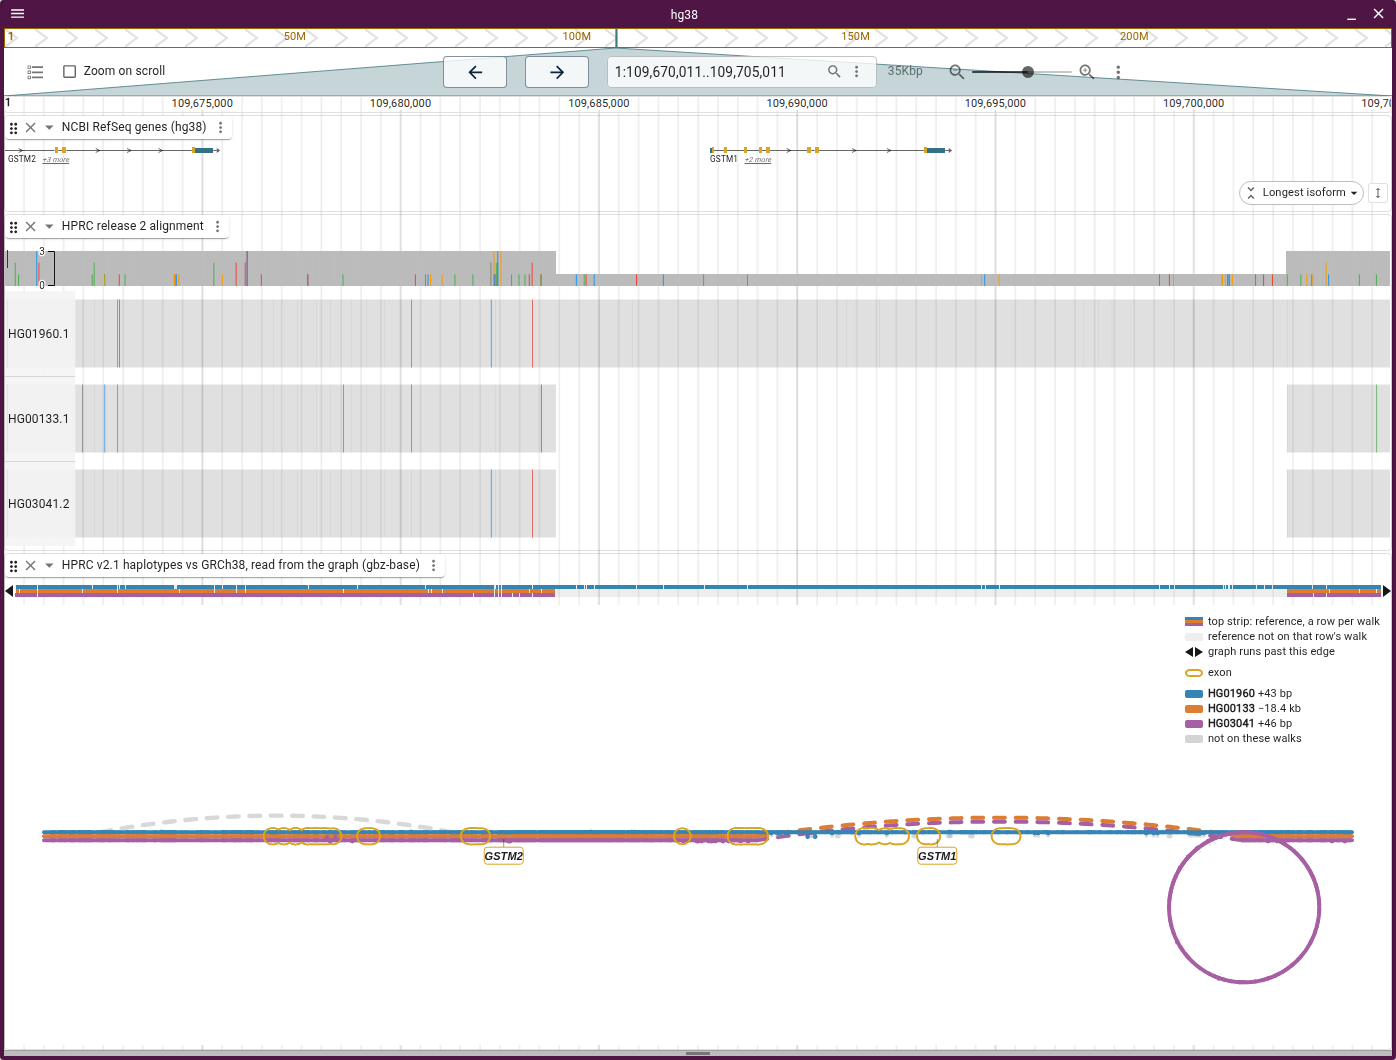
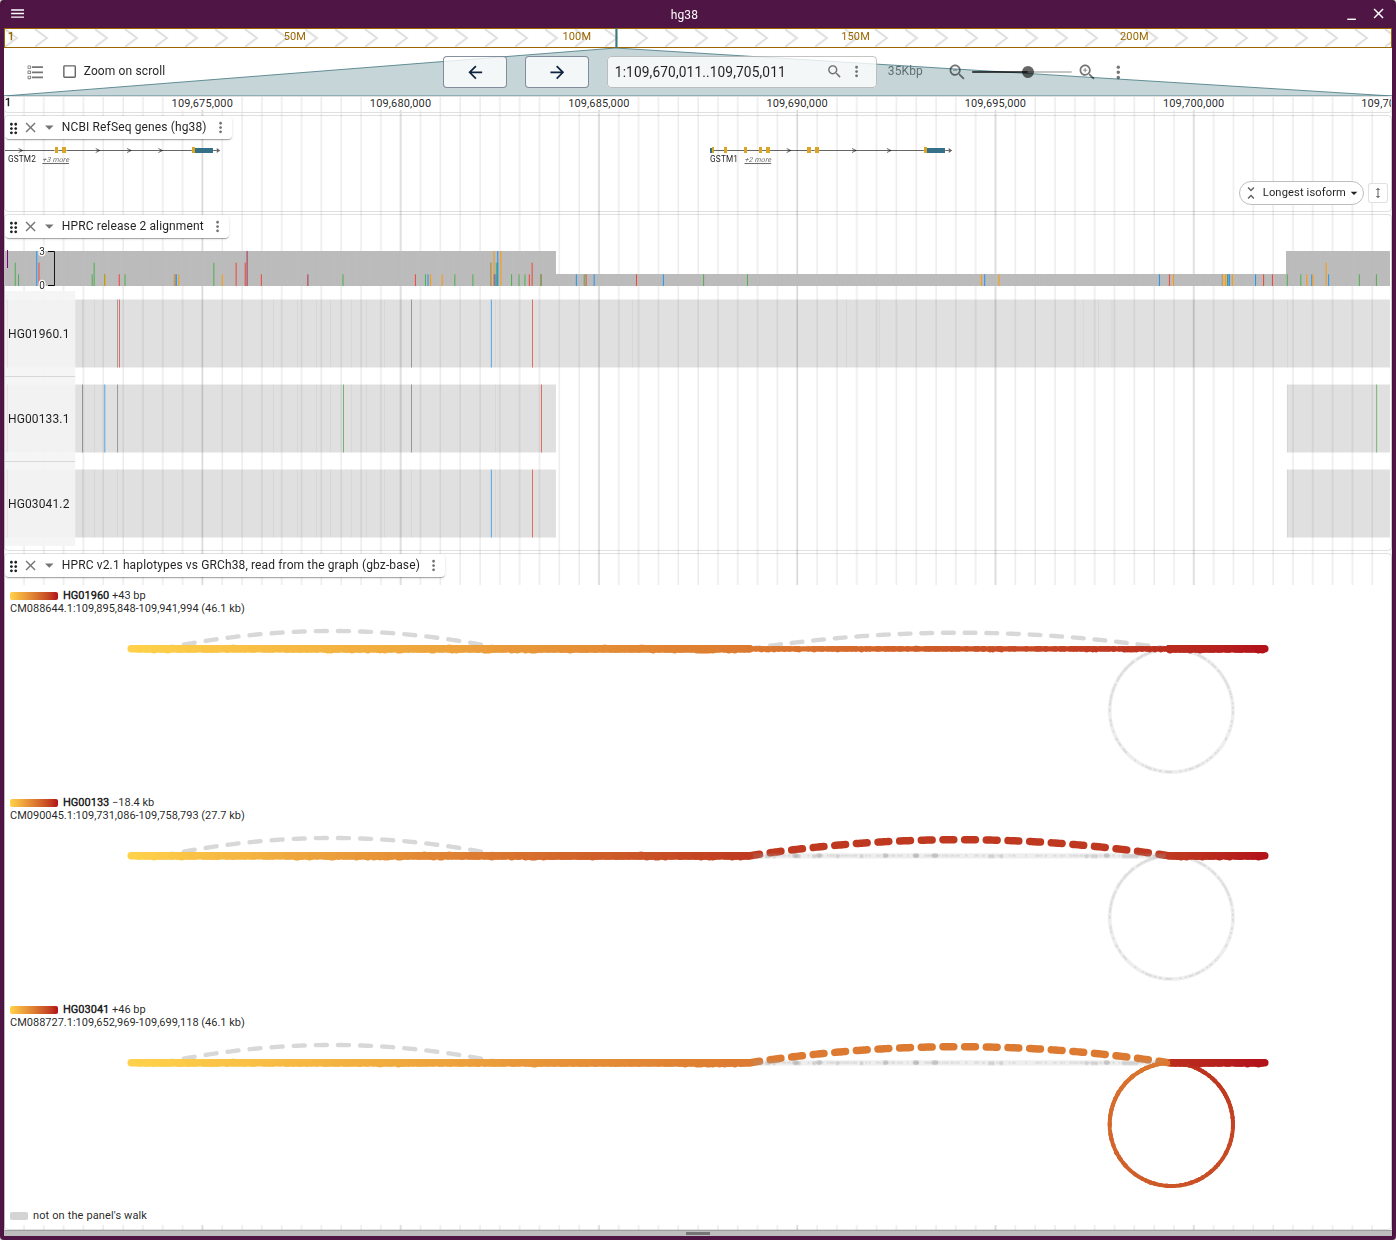
Show GSTM1's three routes a panel each, and use the MICB view and C4 grouped figures
The sentence over force_gstm1_three_ways named a synteny view the figure
lost on 2026-09-28; each walk in its own panel tells the three routes apart.

diff --git a/docs/tube-maps.md b/docs/tube-maps.md
@@ -23,6 +23,11 @@ Pick **Tube map** or **Tube map on reference** from the layout menu
 - In a view of its own, the session's genes draw in up to four rows above the
   tubes. A linear view shows them in their own track
 
+MICB's exons 2–4 opened as a view under the linear view they came from. Hovering
+a variant's box bands its bp in the linear view:
+
+![MICB's exons 2–4 as a view of its own, a variant's box hovered and its bp banded in the linear view above](../img/tube_map_micb.png)
+
 ## Fold variants
 
 **Fold variants** folds every variant under a size into the reference, as in
@@ -80,6 +85,11 @@ C4B, and thin tubes skip or add a whole 33 kb module:
 Hovering a tube lists its haplotypes:
 
 ![C4 as a tube per route, the route skipping GRCh38's second module hovered](../img/tube_map_c4_bundled_hover.png)
+
+C4 with the thirty samples grouped by route: each haplotype keeps its own tube,
+identical routes stack, and superpopulation colours them:
+
+![C4 with a tube per haplotype, identical routes stacked and coloured by superpopulation](../img/tube_map_c4_grouped_by_population.png)
 
 ## Reads
 

diff --git a/docs/haplotypes.md b/docs/haplotypes.md
@@ -36,9 +36,10 @@ Lifting three haplotypes together shows three routes:
   alignment runs HG03041 straight through, so the loop reflects how the graph
   was built. 84 of 463 haplotypes have it
 
-Synteny drawn from the graph shows both skips as a gap:
+A panel per haplotype draws each route alone. HG00133's dashed arc is the 18.4
+kb it skips, and HG03041's loop is its own copy:
 
-![HG01960, HG00133 and HG03041 lifted at GSTM1](../img/force_gstm1_three_ways.png)
+![HG01960, HG00133 and HG03041 lifted at GSTM1, a panel each](../img/force_gstm1_three_ways.png)
 
 ## Facets
 
